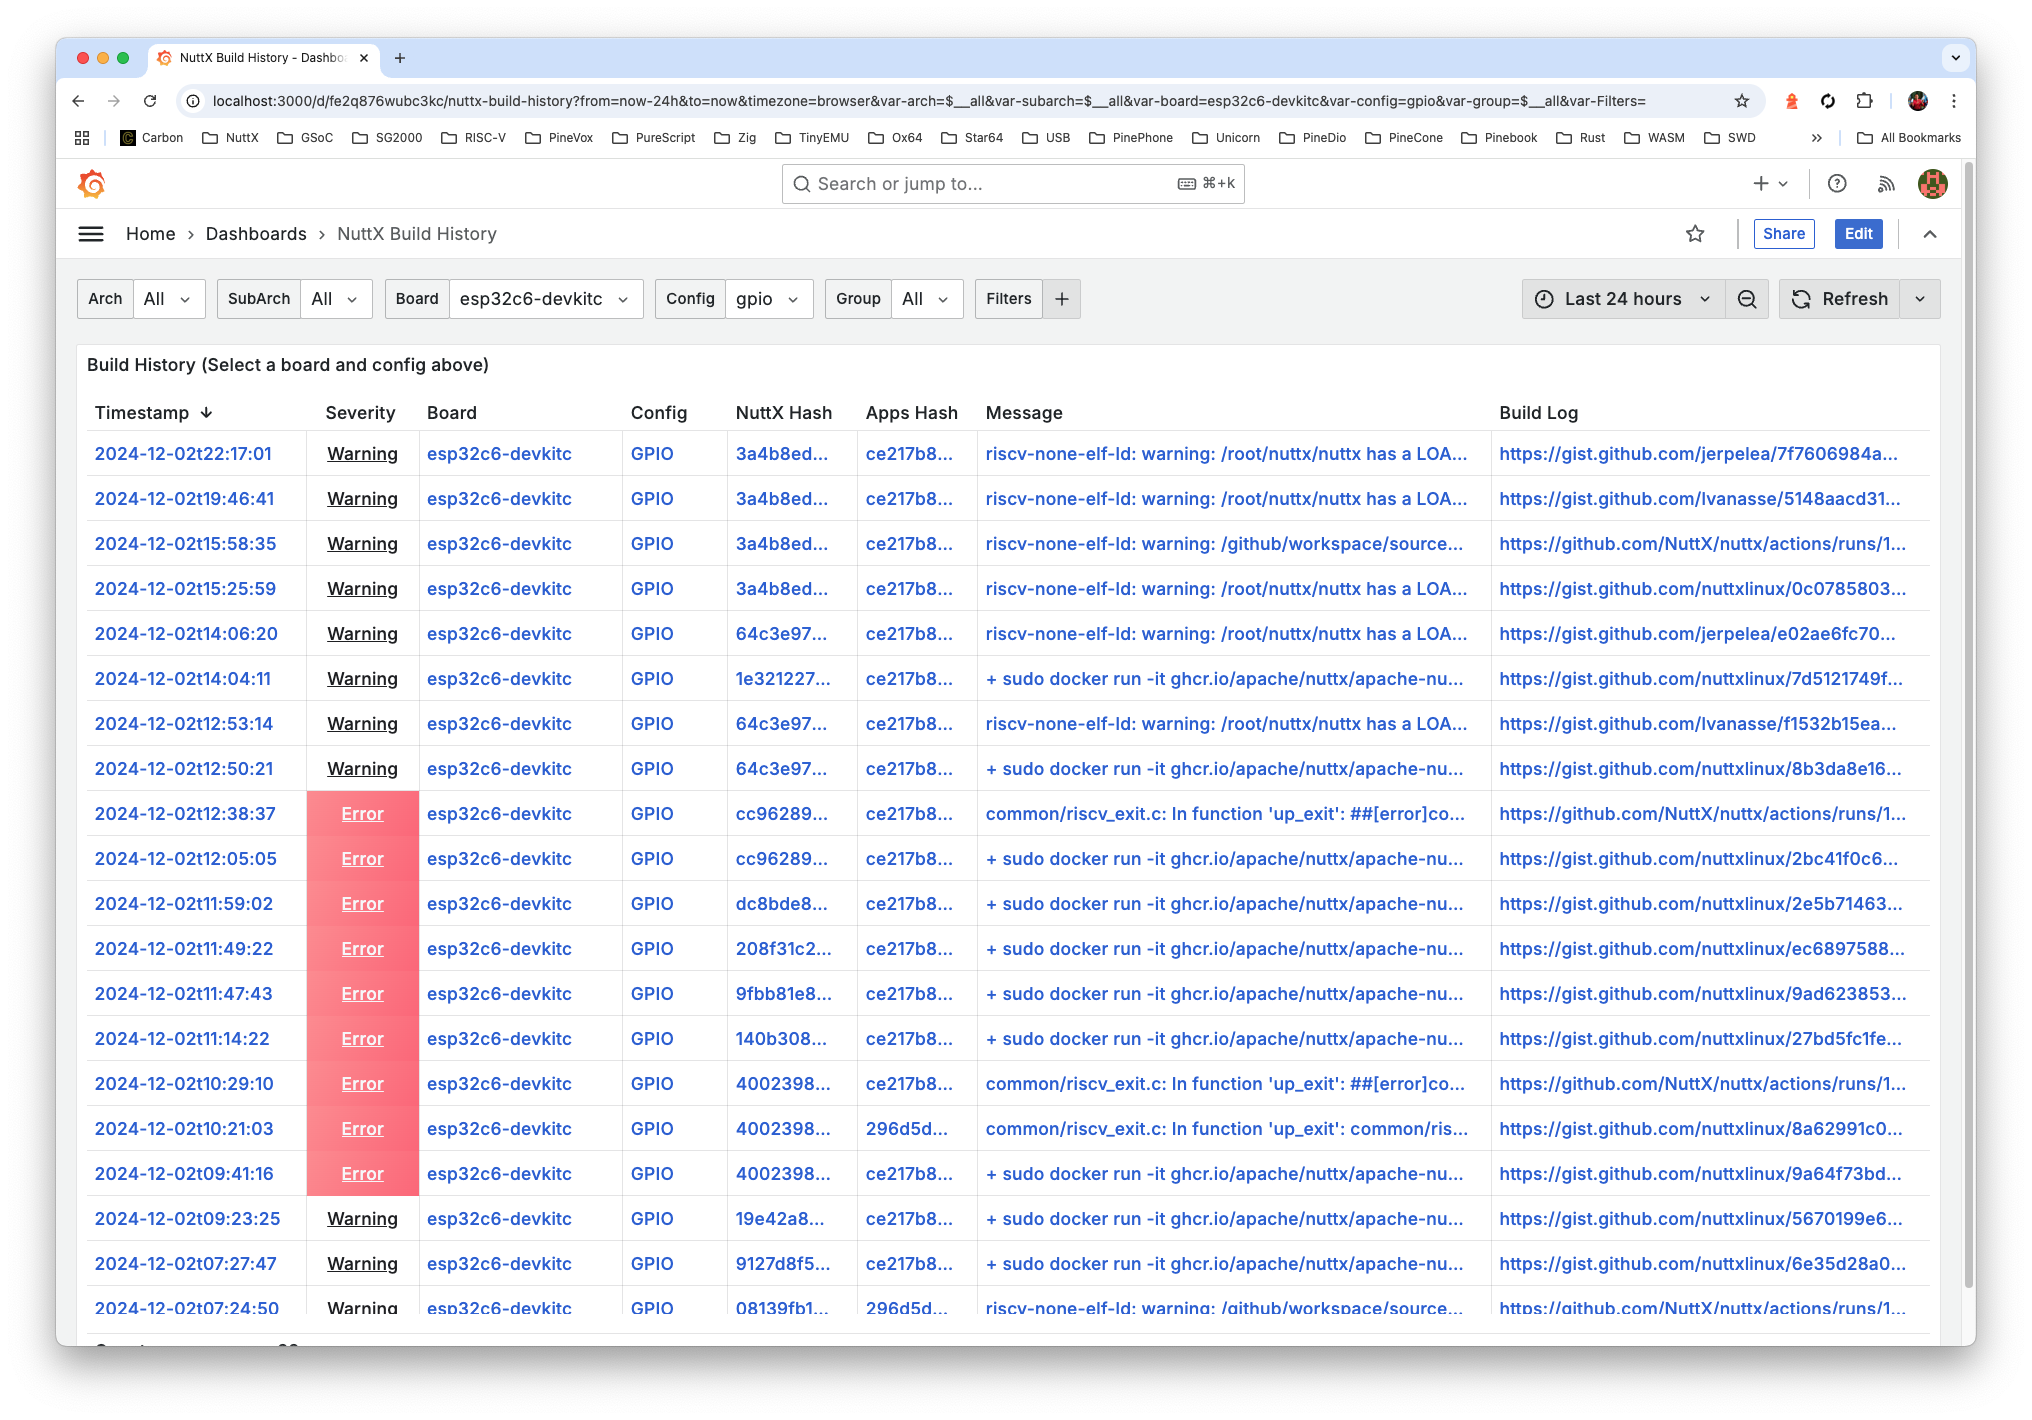
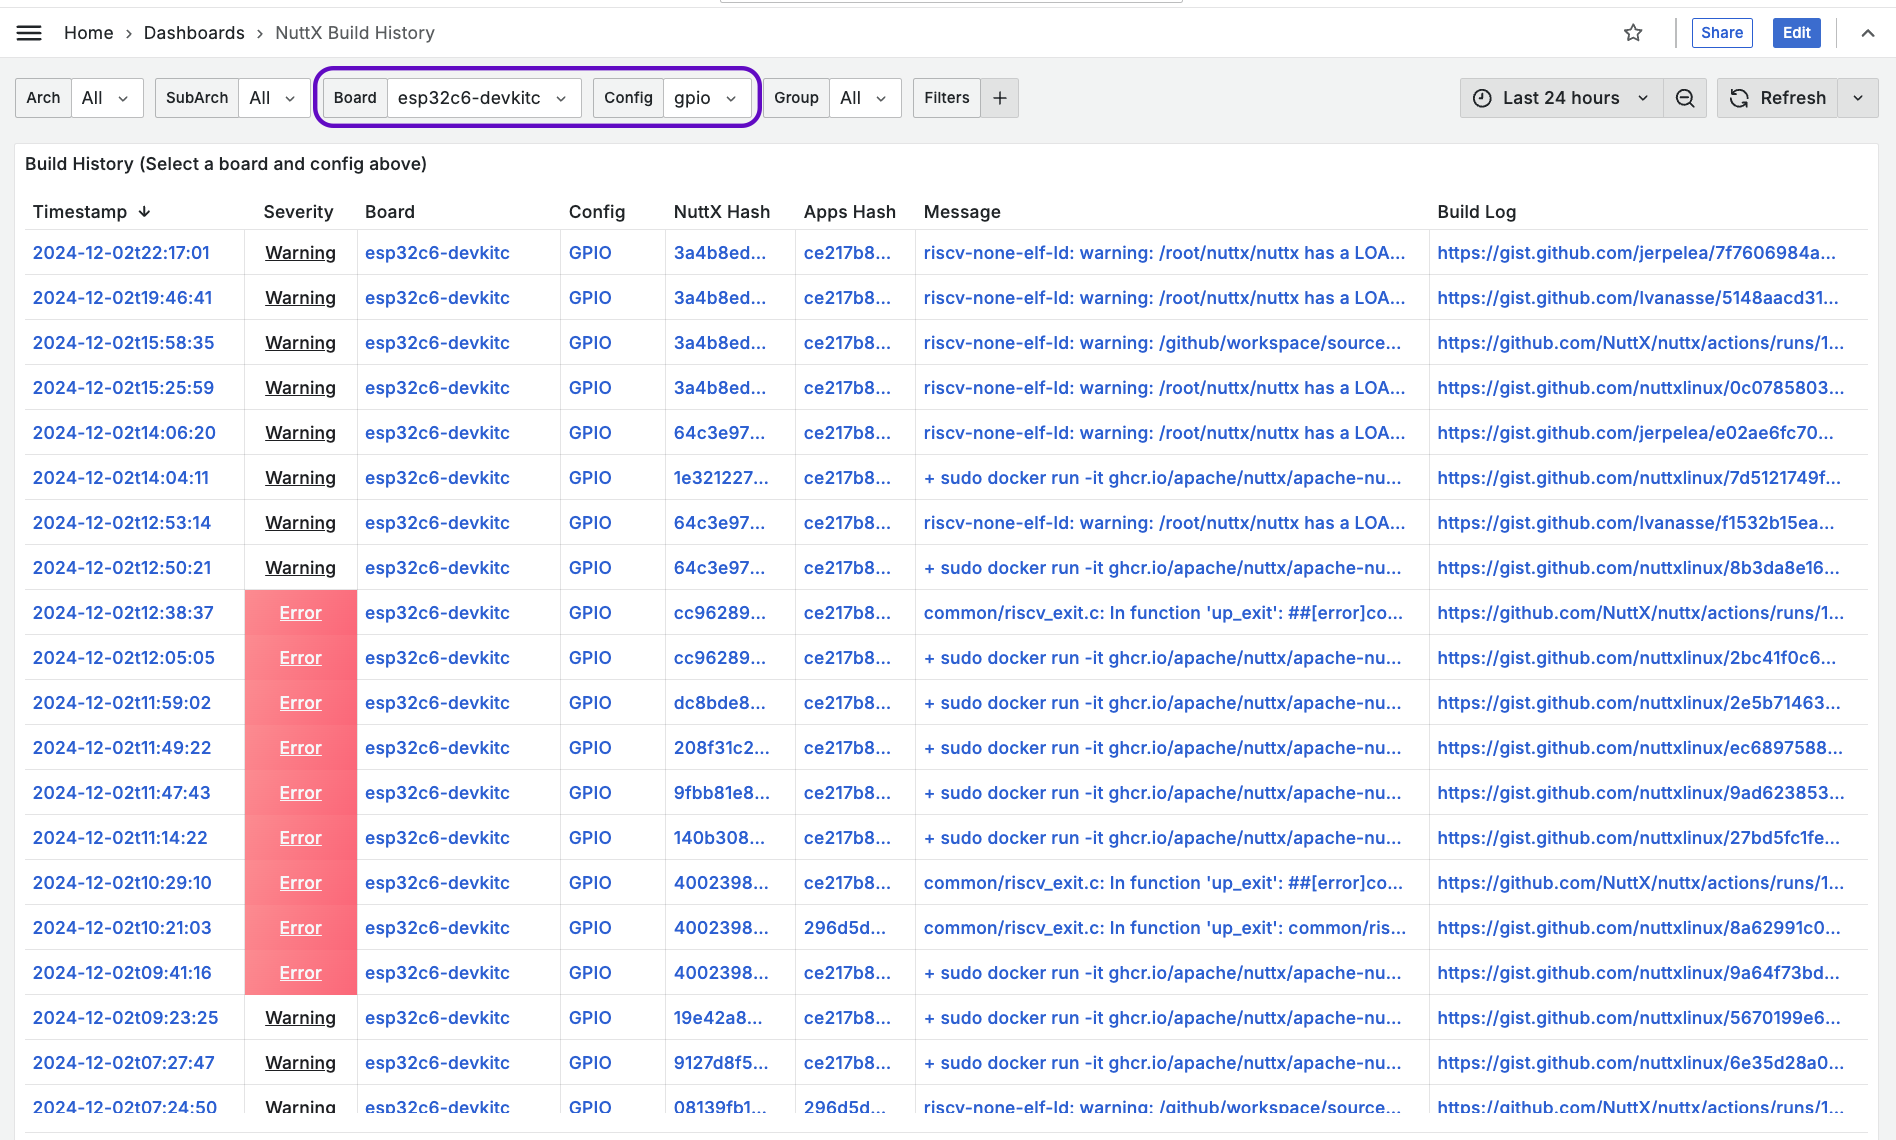
Update article

Changed region(s): [[0.0, 0.0, 0.9958, 0.9825]]

diff --git a/src/ci6.md b/src/ci6.md
@@ -6,7 +6,7 @@
 
 TODO: [__Apache NuttX RTOS__](https://nuttx.apache.org/docs/latest/) 
 
-__2 Dec 2024:__ Chirstmas ain't here yet, but [__NuttX Dashboard__](TODO) is already __Decked in Red__...
+__2 Dec 2024:__ Christmas ain't here yet, but [__NuttX Dashboard__](TODO) is already __Decked in Red__...
 
 ![TODO](https://lupyuen.github.io/images/ci6-dashboard2.png)
 
@@ -14,12 +14,10 @@ Which says that NuttX Build is __failing for ESP32-C6__, as reported by [__NuttX
 
 Normally our NuttX Maintainers will scramble to identify the __Breaking Commit__. (Before it gets piled on by More Breaking Commits)
 
-But now we can go back in time and __"Rewind The Build"__...
+But now we can go back in time and __"Rewind The Build"__ when something breaks the Daily Build...
 
 ```bash
 ## Rewind The Build for NuttX Target esp32c6-devkitc:gpio
-$ git clone https://github.com/lupyuen/nuttx-build-farm
-$ cd nuttx-build-farm
 $ sudo sh -c '
     . ../github-token.sh &&
     ./rewind-build.sh esp32c6-devkitc:gpio
@@ -36,11 +34,11 @@ Build Failed for Next Commit:
 ## Aha! 40023987 is the Breaking Commit!
 ```
 
-Let's chat about our new tool to __"Rewind The Build"__ when something breaks the Daily Build...
+In this article, we look inside our new tool to __Rewind The Build__...
 
-- TODO: Highlight the Breaking Commit (pic below)
+- TODO: Reveal the Breaking Commit (pic below)
 
-![TODO](https://lupyuen.github.io/images/ci6-history4.png)
+![TODO](https://lupyuen.github.io/images/ci6-history4a.png)
 
 # Rewind The Build
 
@@ -48,6 +46,9 @@ _How does it work?_
 
 ```bash
 ## Rewind The Build for NuttX Target esp32c6-devkitc:gpio
+## TODO: Install Docker Engine on Ubuntu x64
+## https://docs.docker.com/engine/install/ubuntu/
+
 $ git clone https://github.com/lupyuen/nuttx-build-farm
 $ cd nuttx-build-farm
 $ sudo sh -c '
@@ -89,7 +90,7 @@ git log
 | __09:23__ | [_19e42a89_](TODO) | _arch/tricore: migrate to SPDX identifier_
 | | | _(Many more commits!)_
 
-One of these is the __Breaking Commit__, but which one?
+One of these is the __Breaking Commit__. But which one?
 
 # The Manual Way
 
@@ -105,6 +106,12 @@ make
 ## If Build Fails: Try the Previous Commit "Enhance romfs"
 make distclean
 git reset --hard dc8bde8d
+tools/configure.sh esp32c6-devkitc:gpio
+make
+
+## If Build Fails: Try the Previous Commit "Test program of kasantest"
+make distclean
+git reset --hard 208f31c2
 tools/configure.sh esp32c6-devkitc:gpio
 make
 
@@ -173,15 +180,23 @@ Build Failed for Next Commit:
 
 [(See the __Complete Log__)](https://gist.github.com/lupyuen/0fe795089736c0ab33be2c965d0f4cf3)
 
-The [__Resulting Log__](https://gist.github.com/lupyuen/0fe795089736c0ab33be2c965d0f4cf3) looks kinda messy. We have a better way to highlight the Breaking Commit...
+The [__Resulting Log__](https://gist.github.com/lupyuen/0fe795089736c0ab33be2c965d0f4cf3) looks kinda messy. We have a better way to capture the evidence and reveal the Breaking Commit...
 
-# TODO
+# NuttX Build History
 
-TODO: Manually
+Head over to [__NuttX Dashboard__](TODO) and click __"NuttX Build History"__.
 
-TODO: ci6-history4.png
+Set the __Board__ and __Config__ to _esp32c6-devkitc_ and _gpio_...
+
+![TODO](https://lupyuen.github.io/images/ci6-history4a.png)
+
+TODO: Breaking Commit
+
+TODO: After fixing
 
 ![TODO](https://lupyuen.github.io/images/ci6-history4.png)
+
+TODO: How to import
 
 TODO: ci6-log1.png
 
